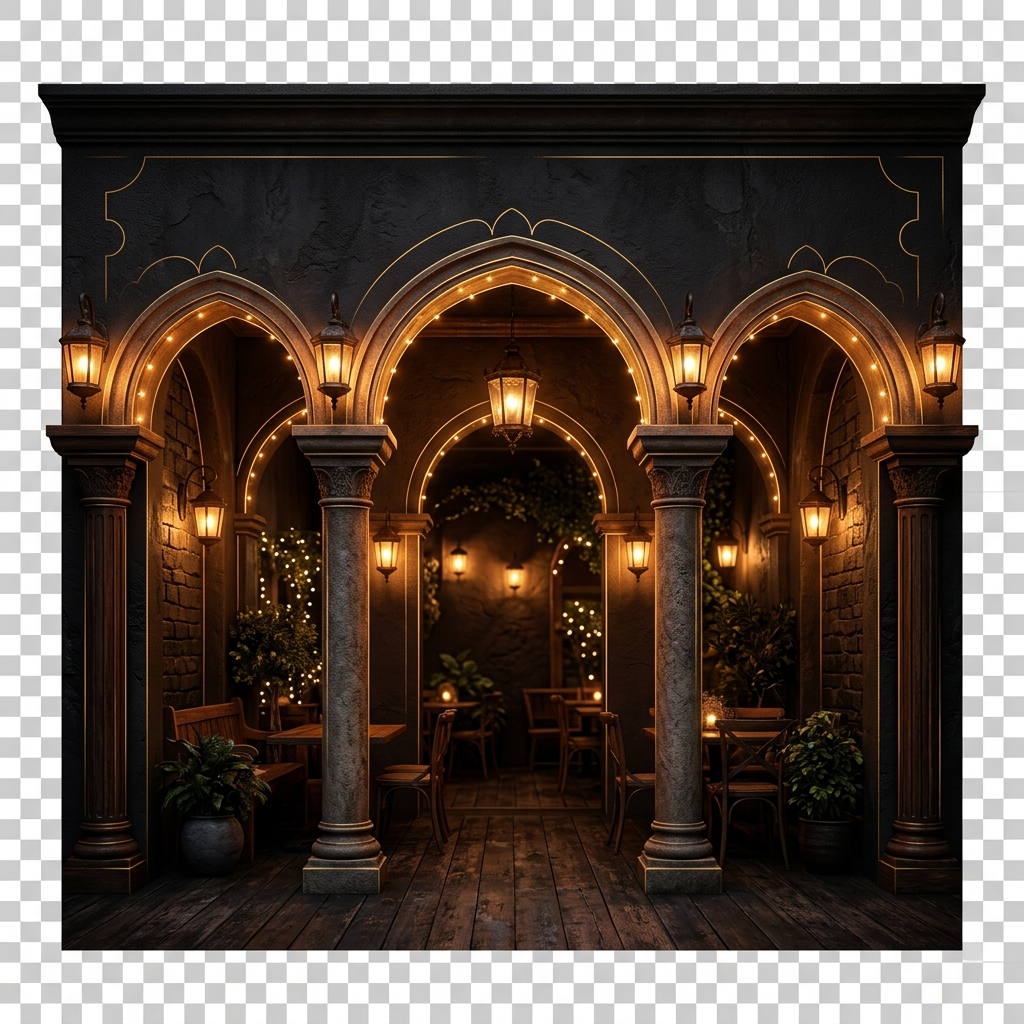
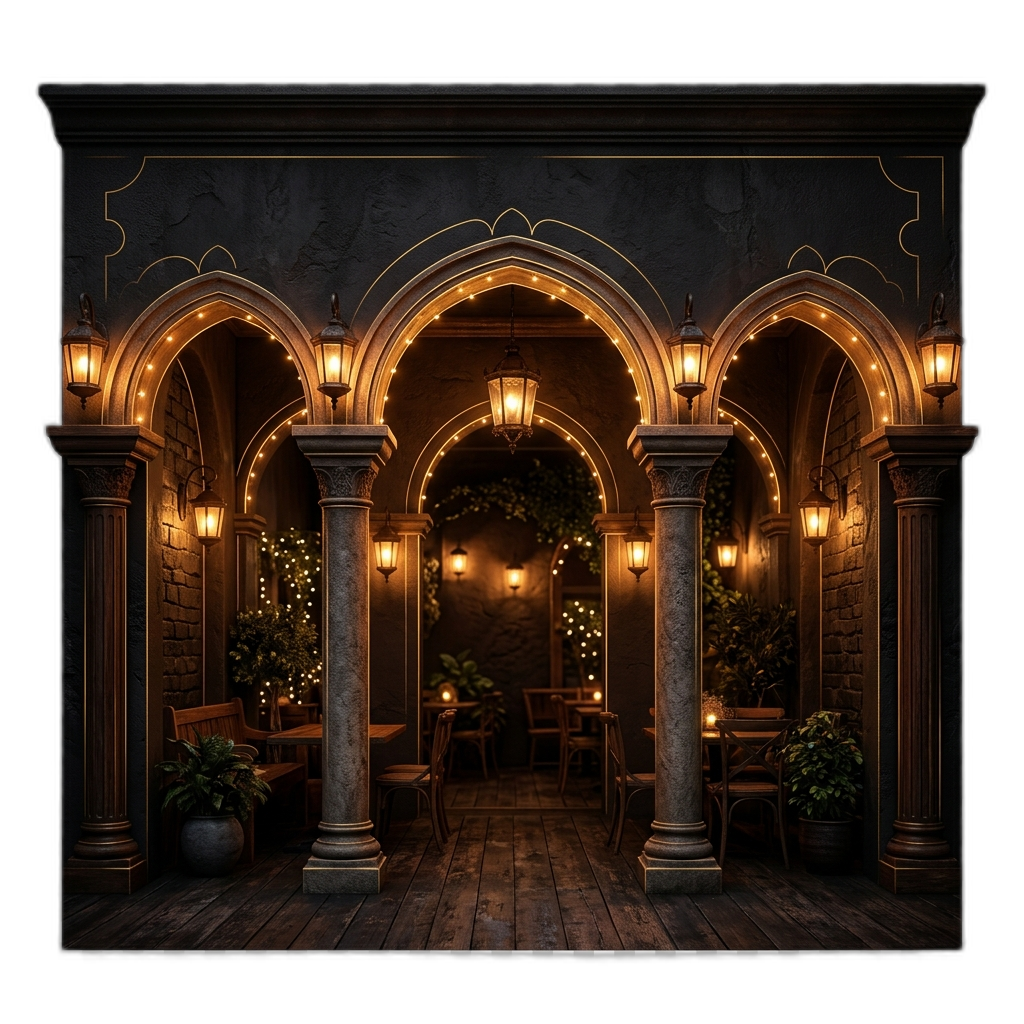
fix: remove backgrounds from 2.5D layers using rembg locally to create true transparent PNGs

Changed region(s): [[0.0, 0.0, 1.0, 1.0]]

diff --git a/scripts/remove_backgrounds.py b/scripts/remove_backgrounds.py
@@ -1,0 +1,39 @@
+import os
+import sys
+from PIL import Image
+from rembg import remove
+
+def remove_background(input_path, output_path):
+    print(f"Processing: {input_path} -> {output_path}")
+    try:
+        if not os.path.exists(input_path):
+            print(f"Error: Source file {input_path} does not exist.")
+            return False
+            
+        input_image = Image.open(input_path)
+        # remove background using rembg
+        output_image = remove(input_image)
+        output_image.save(output_path, "PNG")
+        print(f"Success: Saved transparent image to {output_path}")
+        return True
+    except Exception as e:
+        print(f"Exception processing {input_path}: {e}")
+        return False
+
+def main():
+    base_dir = os.path.abspath(os.path.join(os.path.dirname(__file__), ".."))
+    images_dir = os.path.join(base_dir, "public", "images")
+    
+    layers = ["layer-bg.png", "layer-mid.png", "layer-fg.png"]
+    
+    success_count = 0
+    for layer in layers:
+        file_path = os.path.join(images_dir, layer)
+        # We will overwrite the existing image with the background-removed version
+        if remove_background(file_path, file_path):
+            success_count += 1
+            
+    print(f"Completed processing. Successful: {success_count}/{len(layers)}")
+
+if __name__ == "__main__":
+    main()